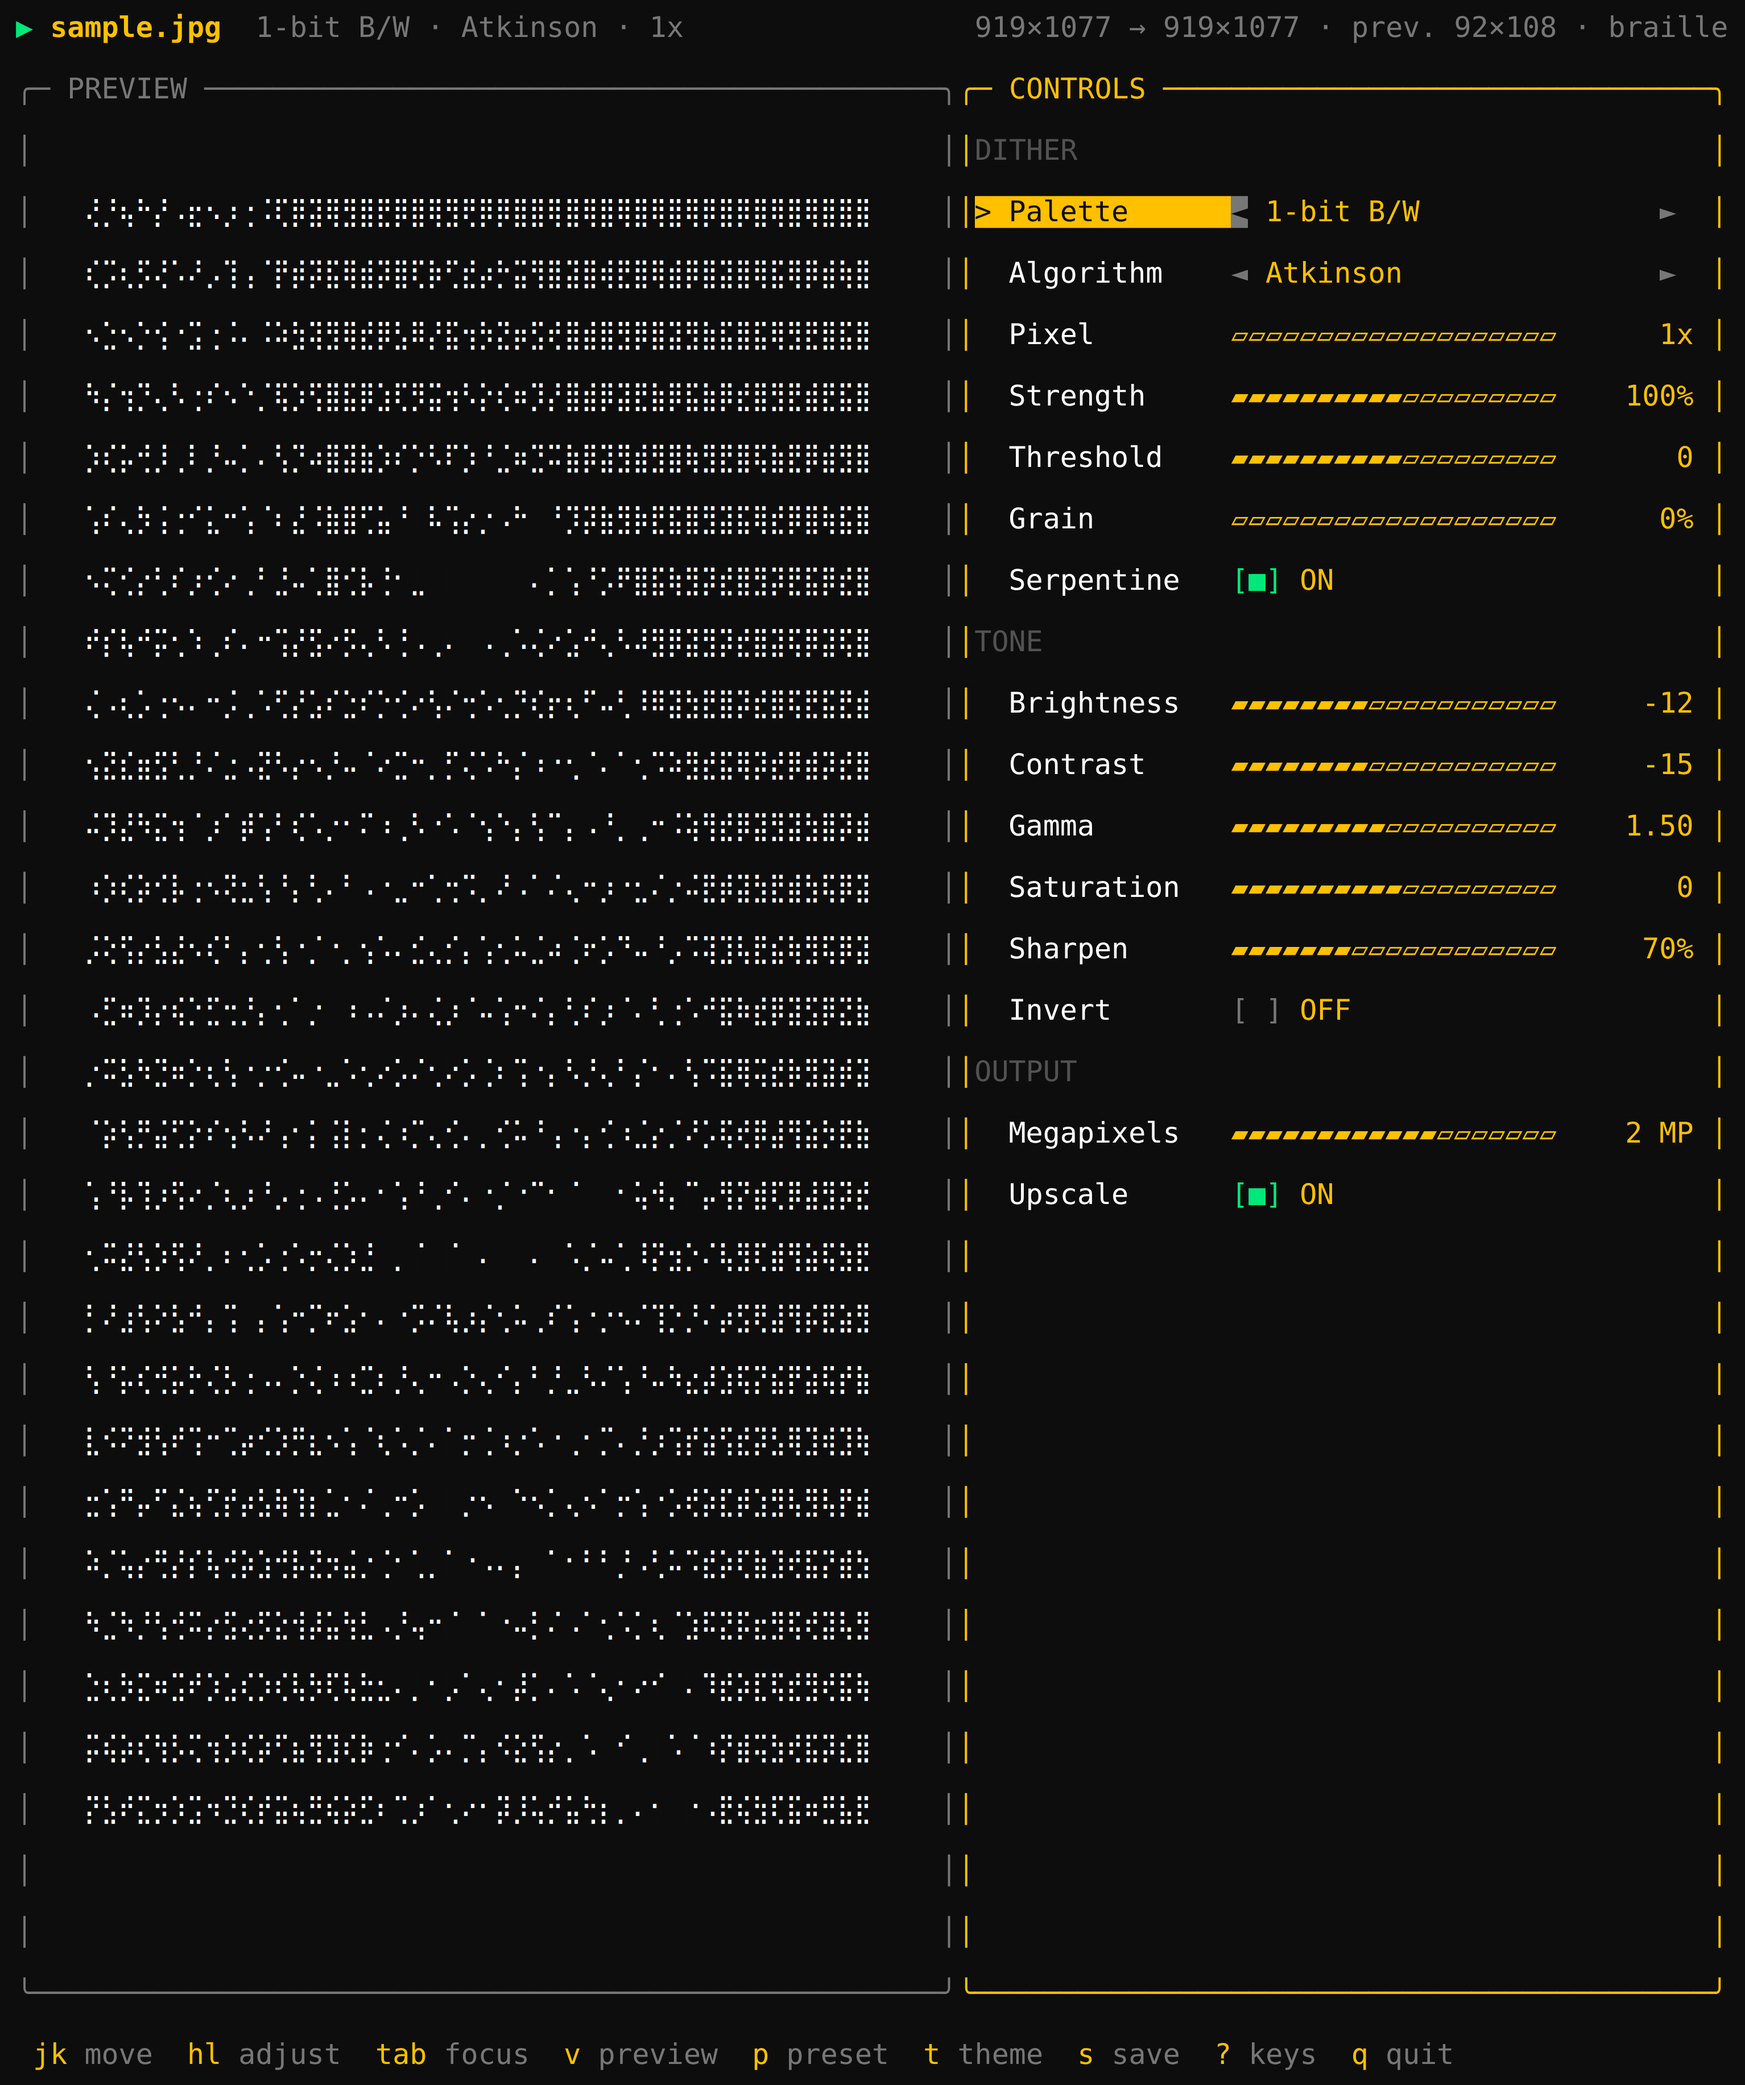
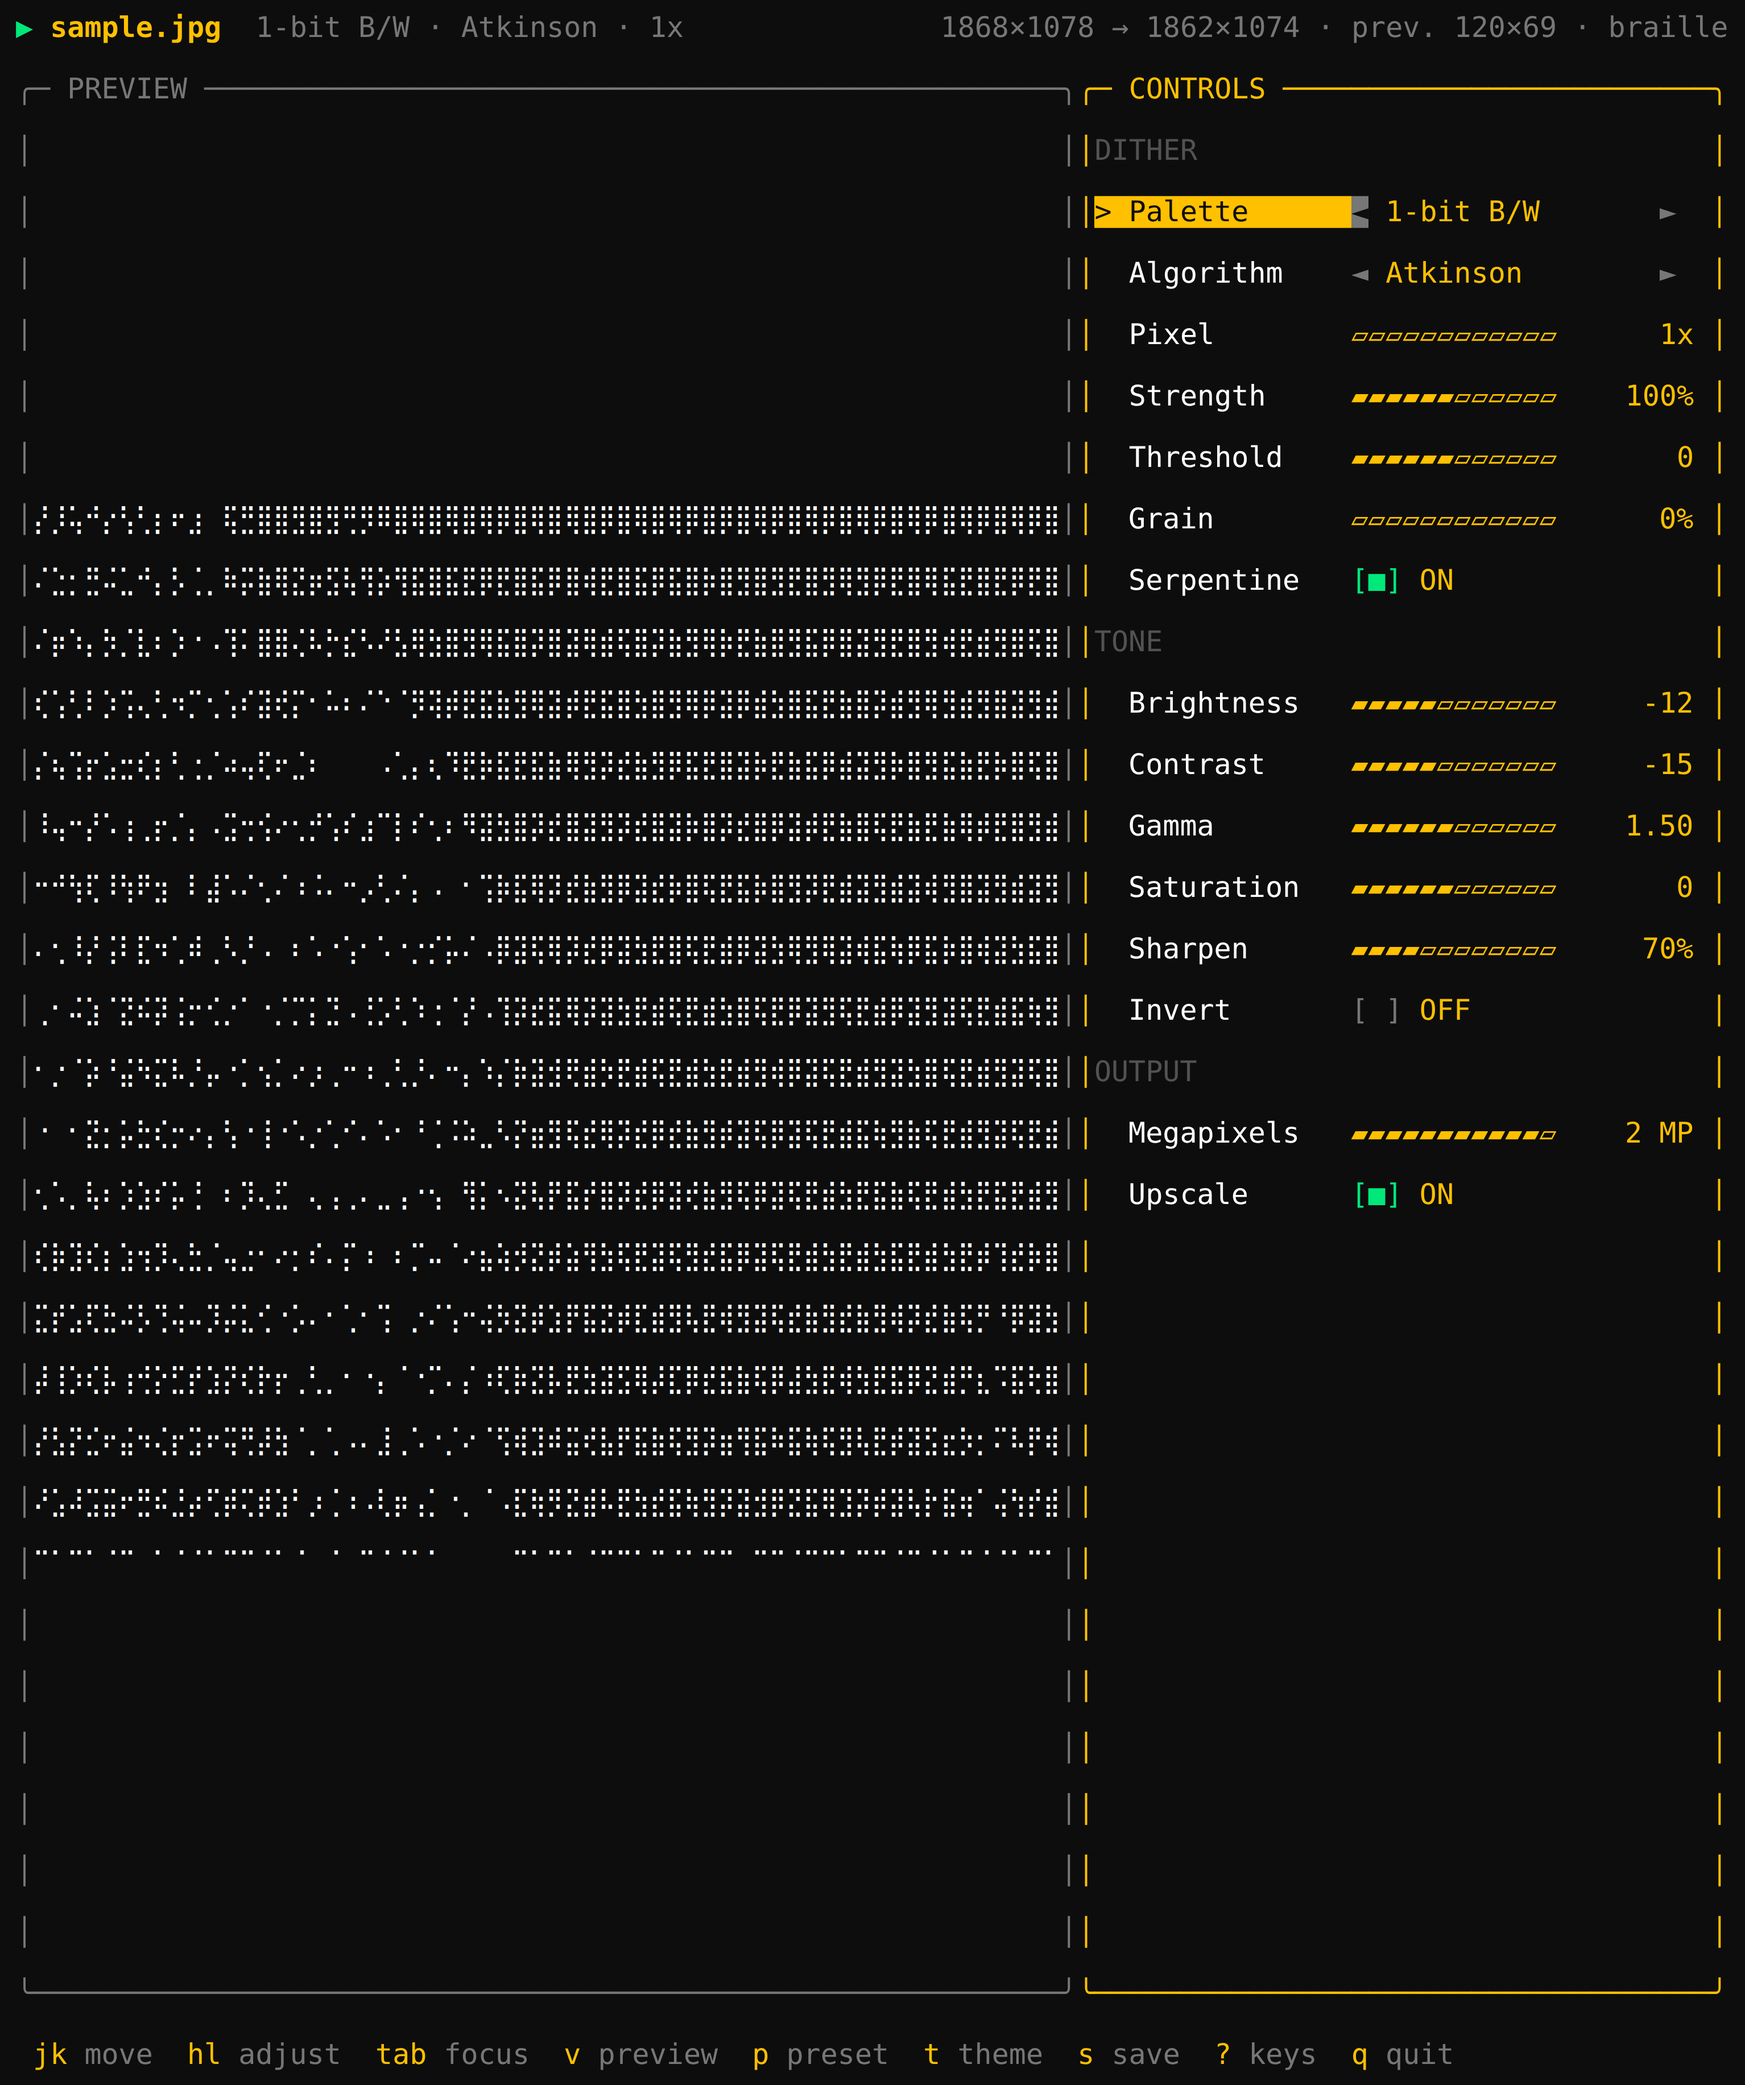
Read the sample photo's size from the file in the test
The preload test had 919x1077 written into it, which broke the moment
the sample was replaced with the full-resolution original. It now reads
the dimensions from examples/sample.jpg, so swapping the photo does not
mean editing a test.

Regenerates both README screenshots against the new 1868x1078 photo.

diff --git a/test/layout.test.js b/test/layout.test.js
@@ -7,6 +7,8 @@ import { createReadStream, existsSync, statSync } from 'node:fs';
 import { fileURLToPath } from 'node:url';
 import { resolve, dirname, join, extname, normalize } from 'node:path';
 
+import { loadImage } from '../src/cli/imageio.js';
+
 const ROOT = resolve(dirname(fileURLToPath(import.meta.url)), '..');
 
 /**
@@ -337,7 +339,13 @@ test('la pagina parte con la foto di prova gia caricata', async (t) => {
   });
 
   assert.ok(esito.caricata, 'il widget non risulta caricato');
-  assert.deepEqual(esito.misure, [919, 1077], 'non e la foto di prova');
+  // Le misure si leggono dal file invece di scriverle qui: la foto di prova
+  // si puo' sostituire senza che questo controllo vada rifatto.
+  const vera = await loadImage(join(ROOT, 'examples', 'sample.jpg'));
+  assert.deepEqual(
+    esito.misure, [vera.width, vera.height],
+    'la foto caricata non e quella di examples/sample.jpg',
+  );
   assert.match(esito.nome || '', /sample\.jpg/);
   assert.ok(esito.secondaCaricata, 'data-src non ha caricato niente');
   assert.deepEqual(errori, []);
